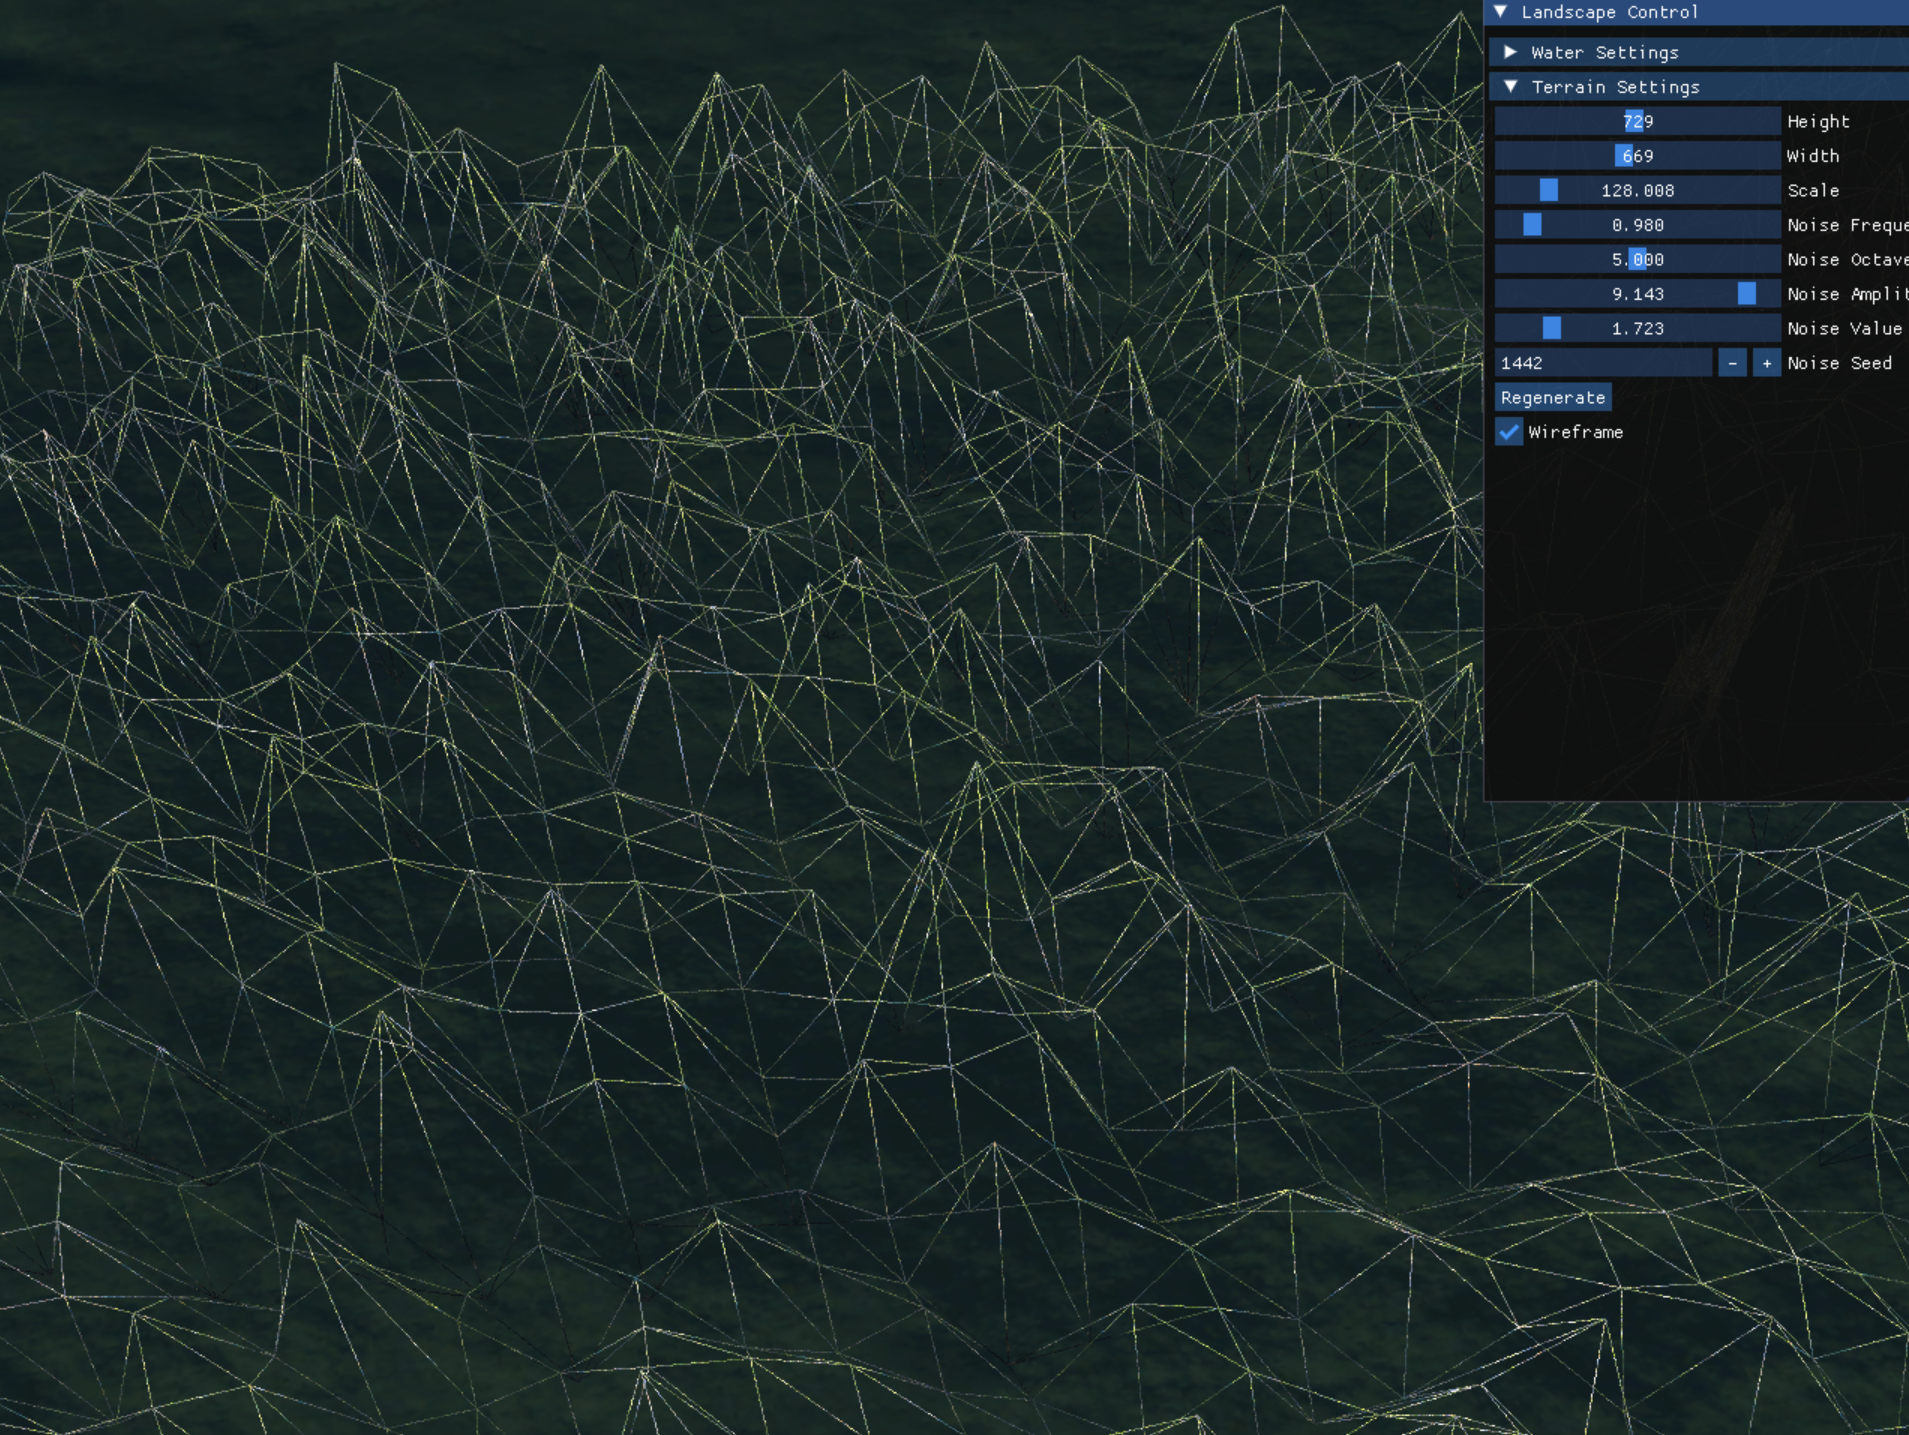
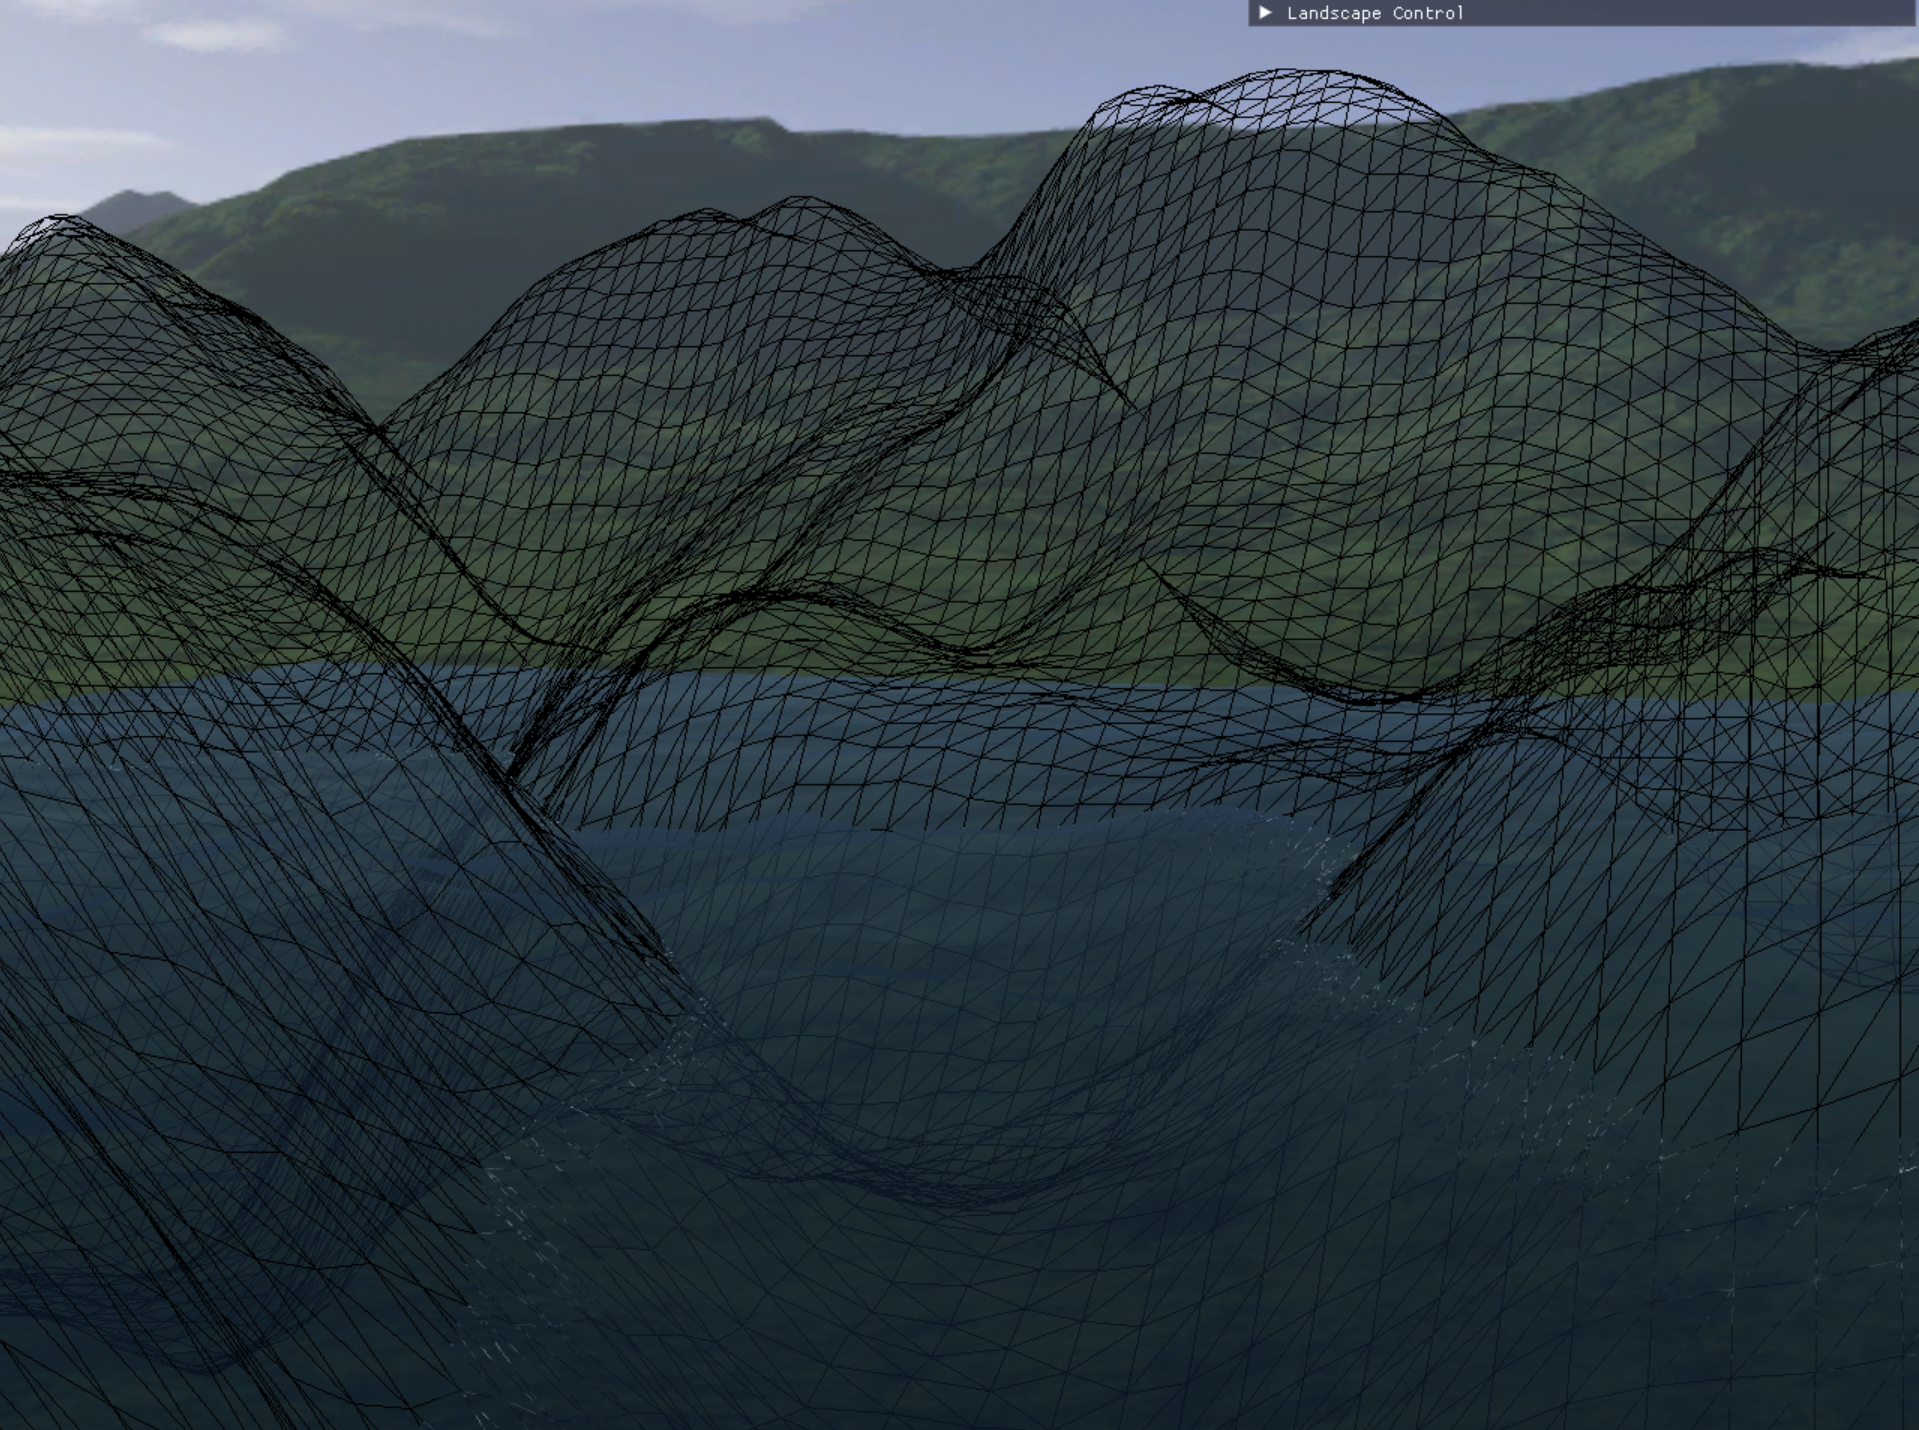
Update README with latest visuals

diff --git a/README.md b/README.md
@@ -12,18 +12,10 @@ Work on the project is ongoing. Screenshots of the project in its current state 
 
 Figure 1: AquaTerrainDX12 - Procedural Terrain with Dynamic Water Simulation
 
-![AquaTerrainDX12 Screenshot with GUI](./docs/images/AquaTerrain-GUIPreAdjustment.png)
+![AquaTerrainDX12 Screenshot with GUI](./docs/images/AquaTerrain-GUI.png)
 
 Figure 2: AquaTerrainDX12 - Procedural Terrain with Dynamic Water Simulation and GUI with core parameters exposed for user adjustment
 
-![AquaTerrainDX12 Screenshot with GUI Adjusted](./docs/images/AquaTerrain-GUIPostAdjustment.png)
-
-Figure 3: AquaTerrainDX12 - Procedural Terrain with Dynamic Water Simulation and GUI with parameters adjusted by the user
-
 ![AquaTerrainDX12 Screenshot with Wireframe Rendering](./docs/images/AquaTerrain-Wireframe.png)
 
-Figure 4: AquaTerrainDX12 - Procedural Terrain with Dynamic Water Simulation and Wireframe Terrain Rendering Enabled through GUI
-
-![AquaTerrainDX12 Screenshot with Wireframe Rendering](./docs/images/AquaTerrain-NonWireframe.png)
-
-Figure 5: AquaTerrainDX12 - Opaque Terrain Rendering of same view as Figure 4 for comparison
+Figure 3: AquaTerrainDX12 - Procedural Terrain with Dynamic Water Simulation and Wireframe Terrain Rendering Enabled through GUI
